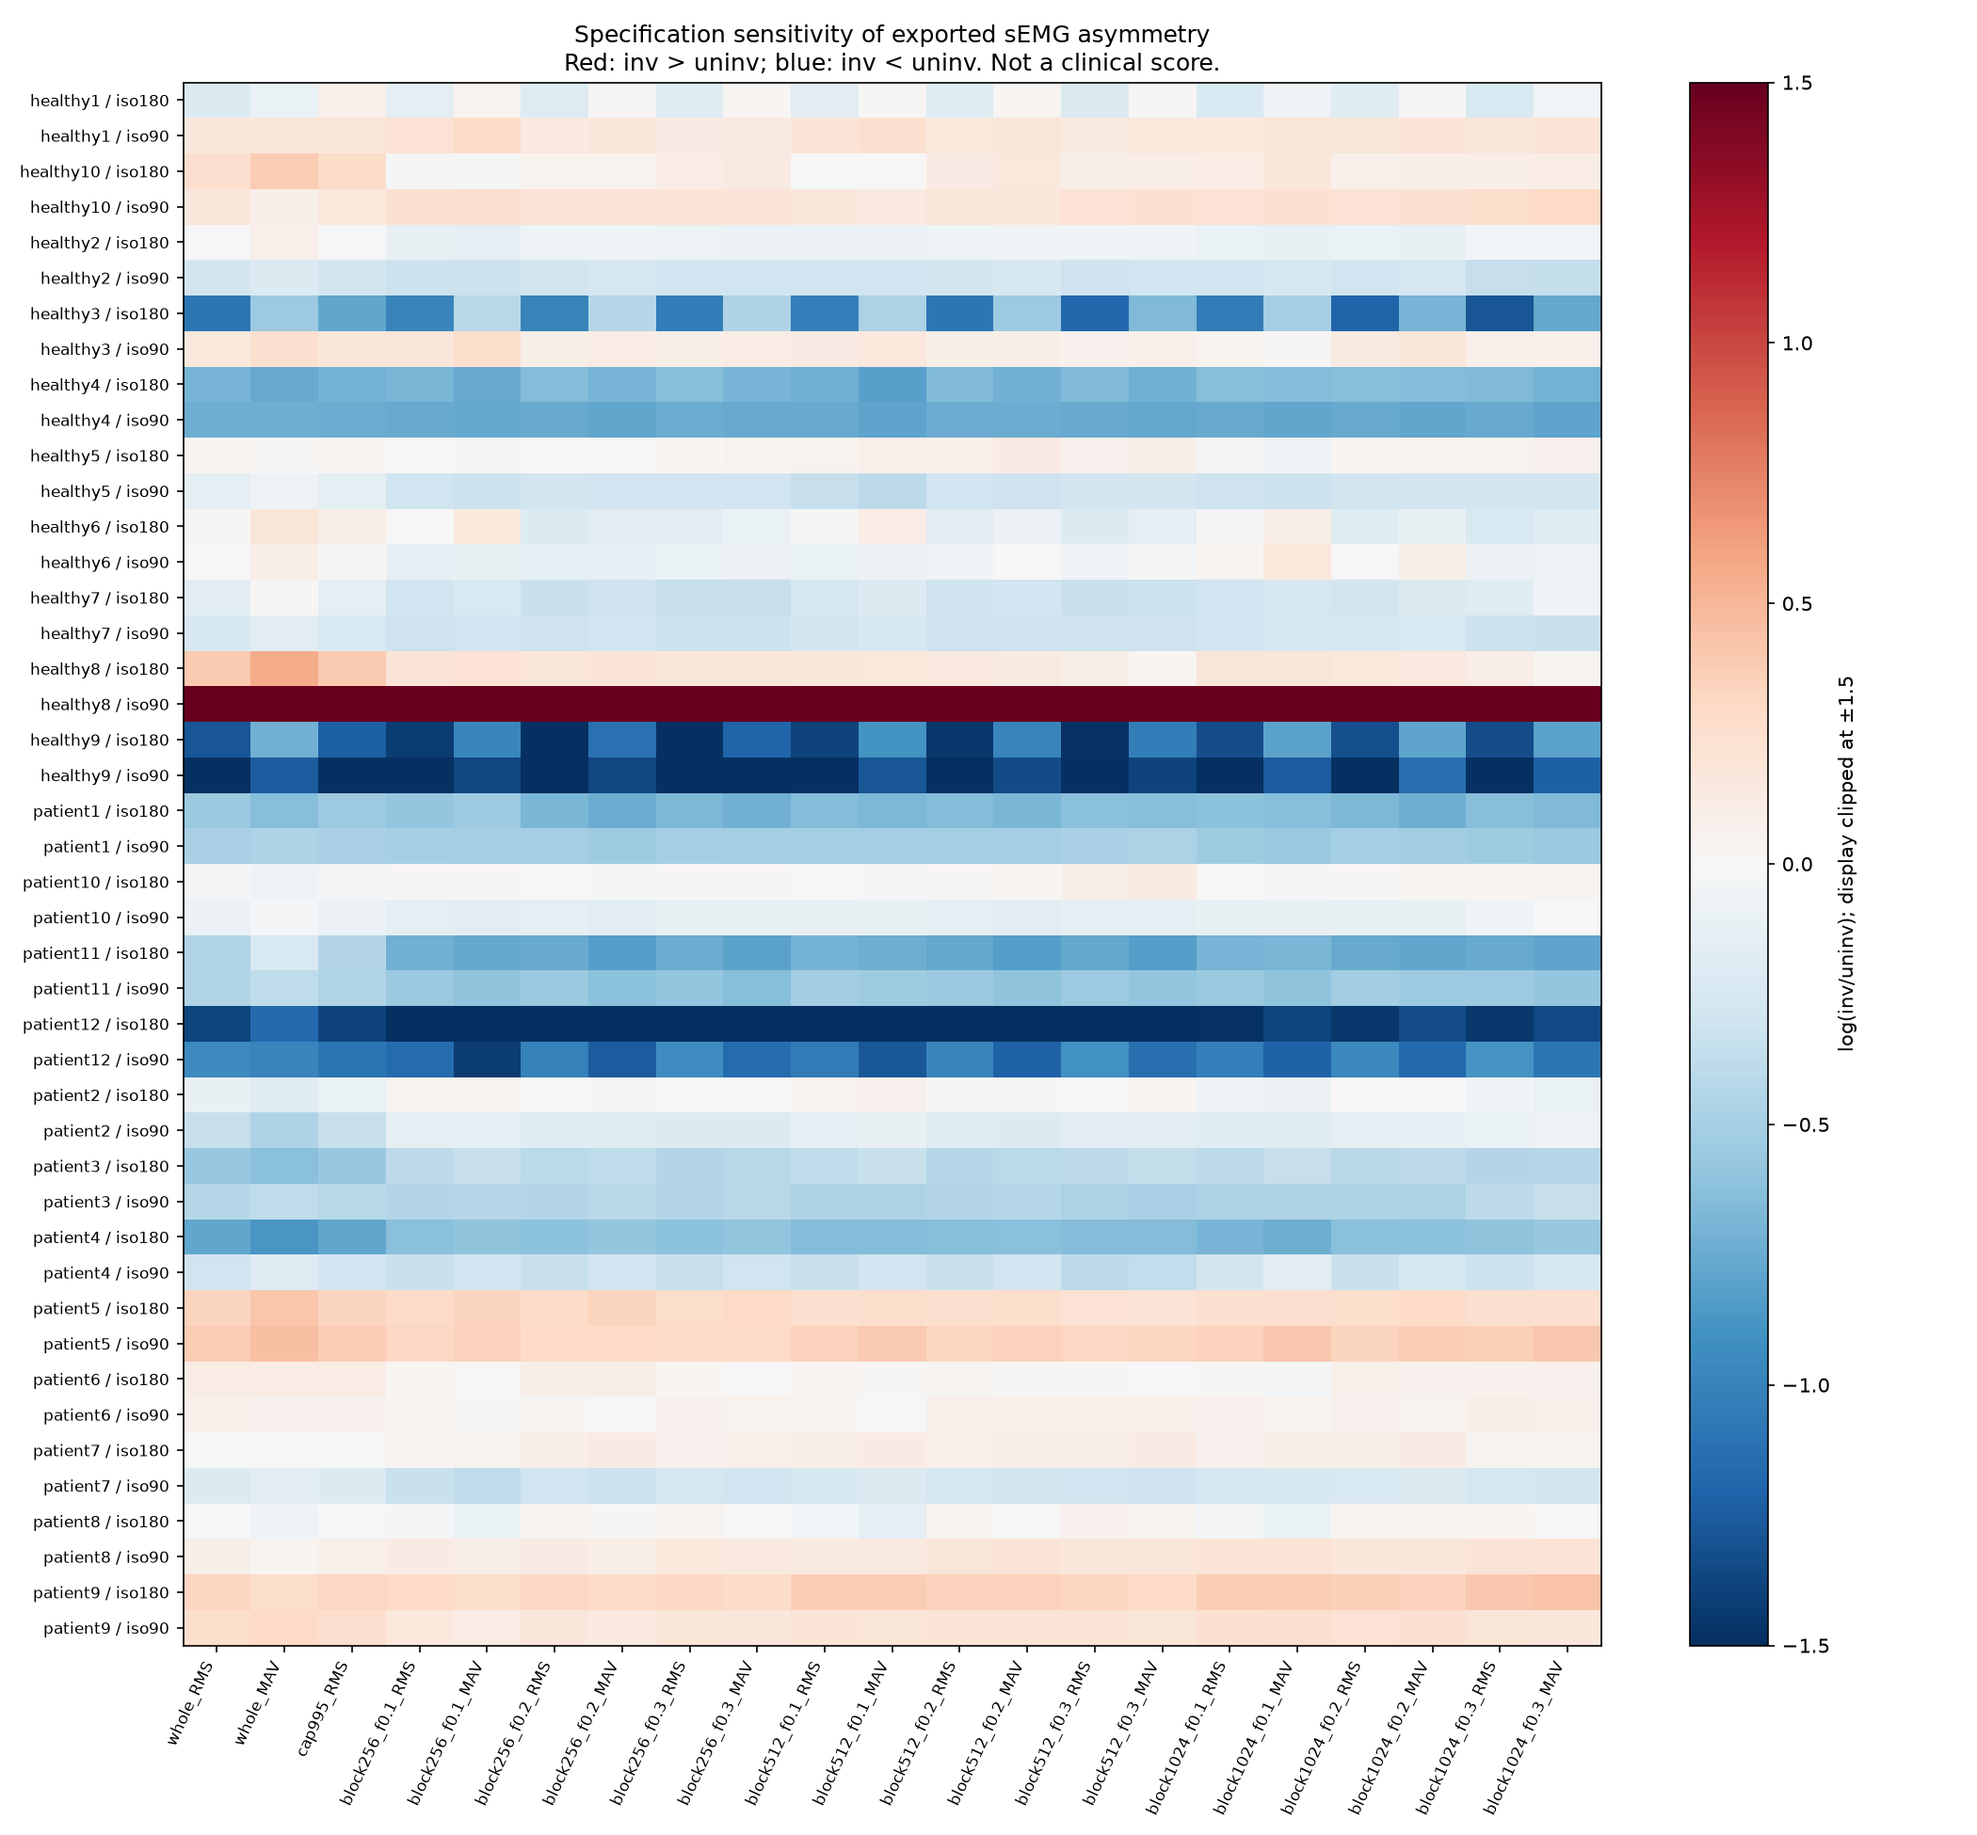
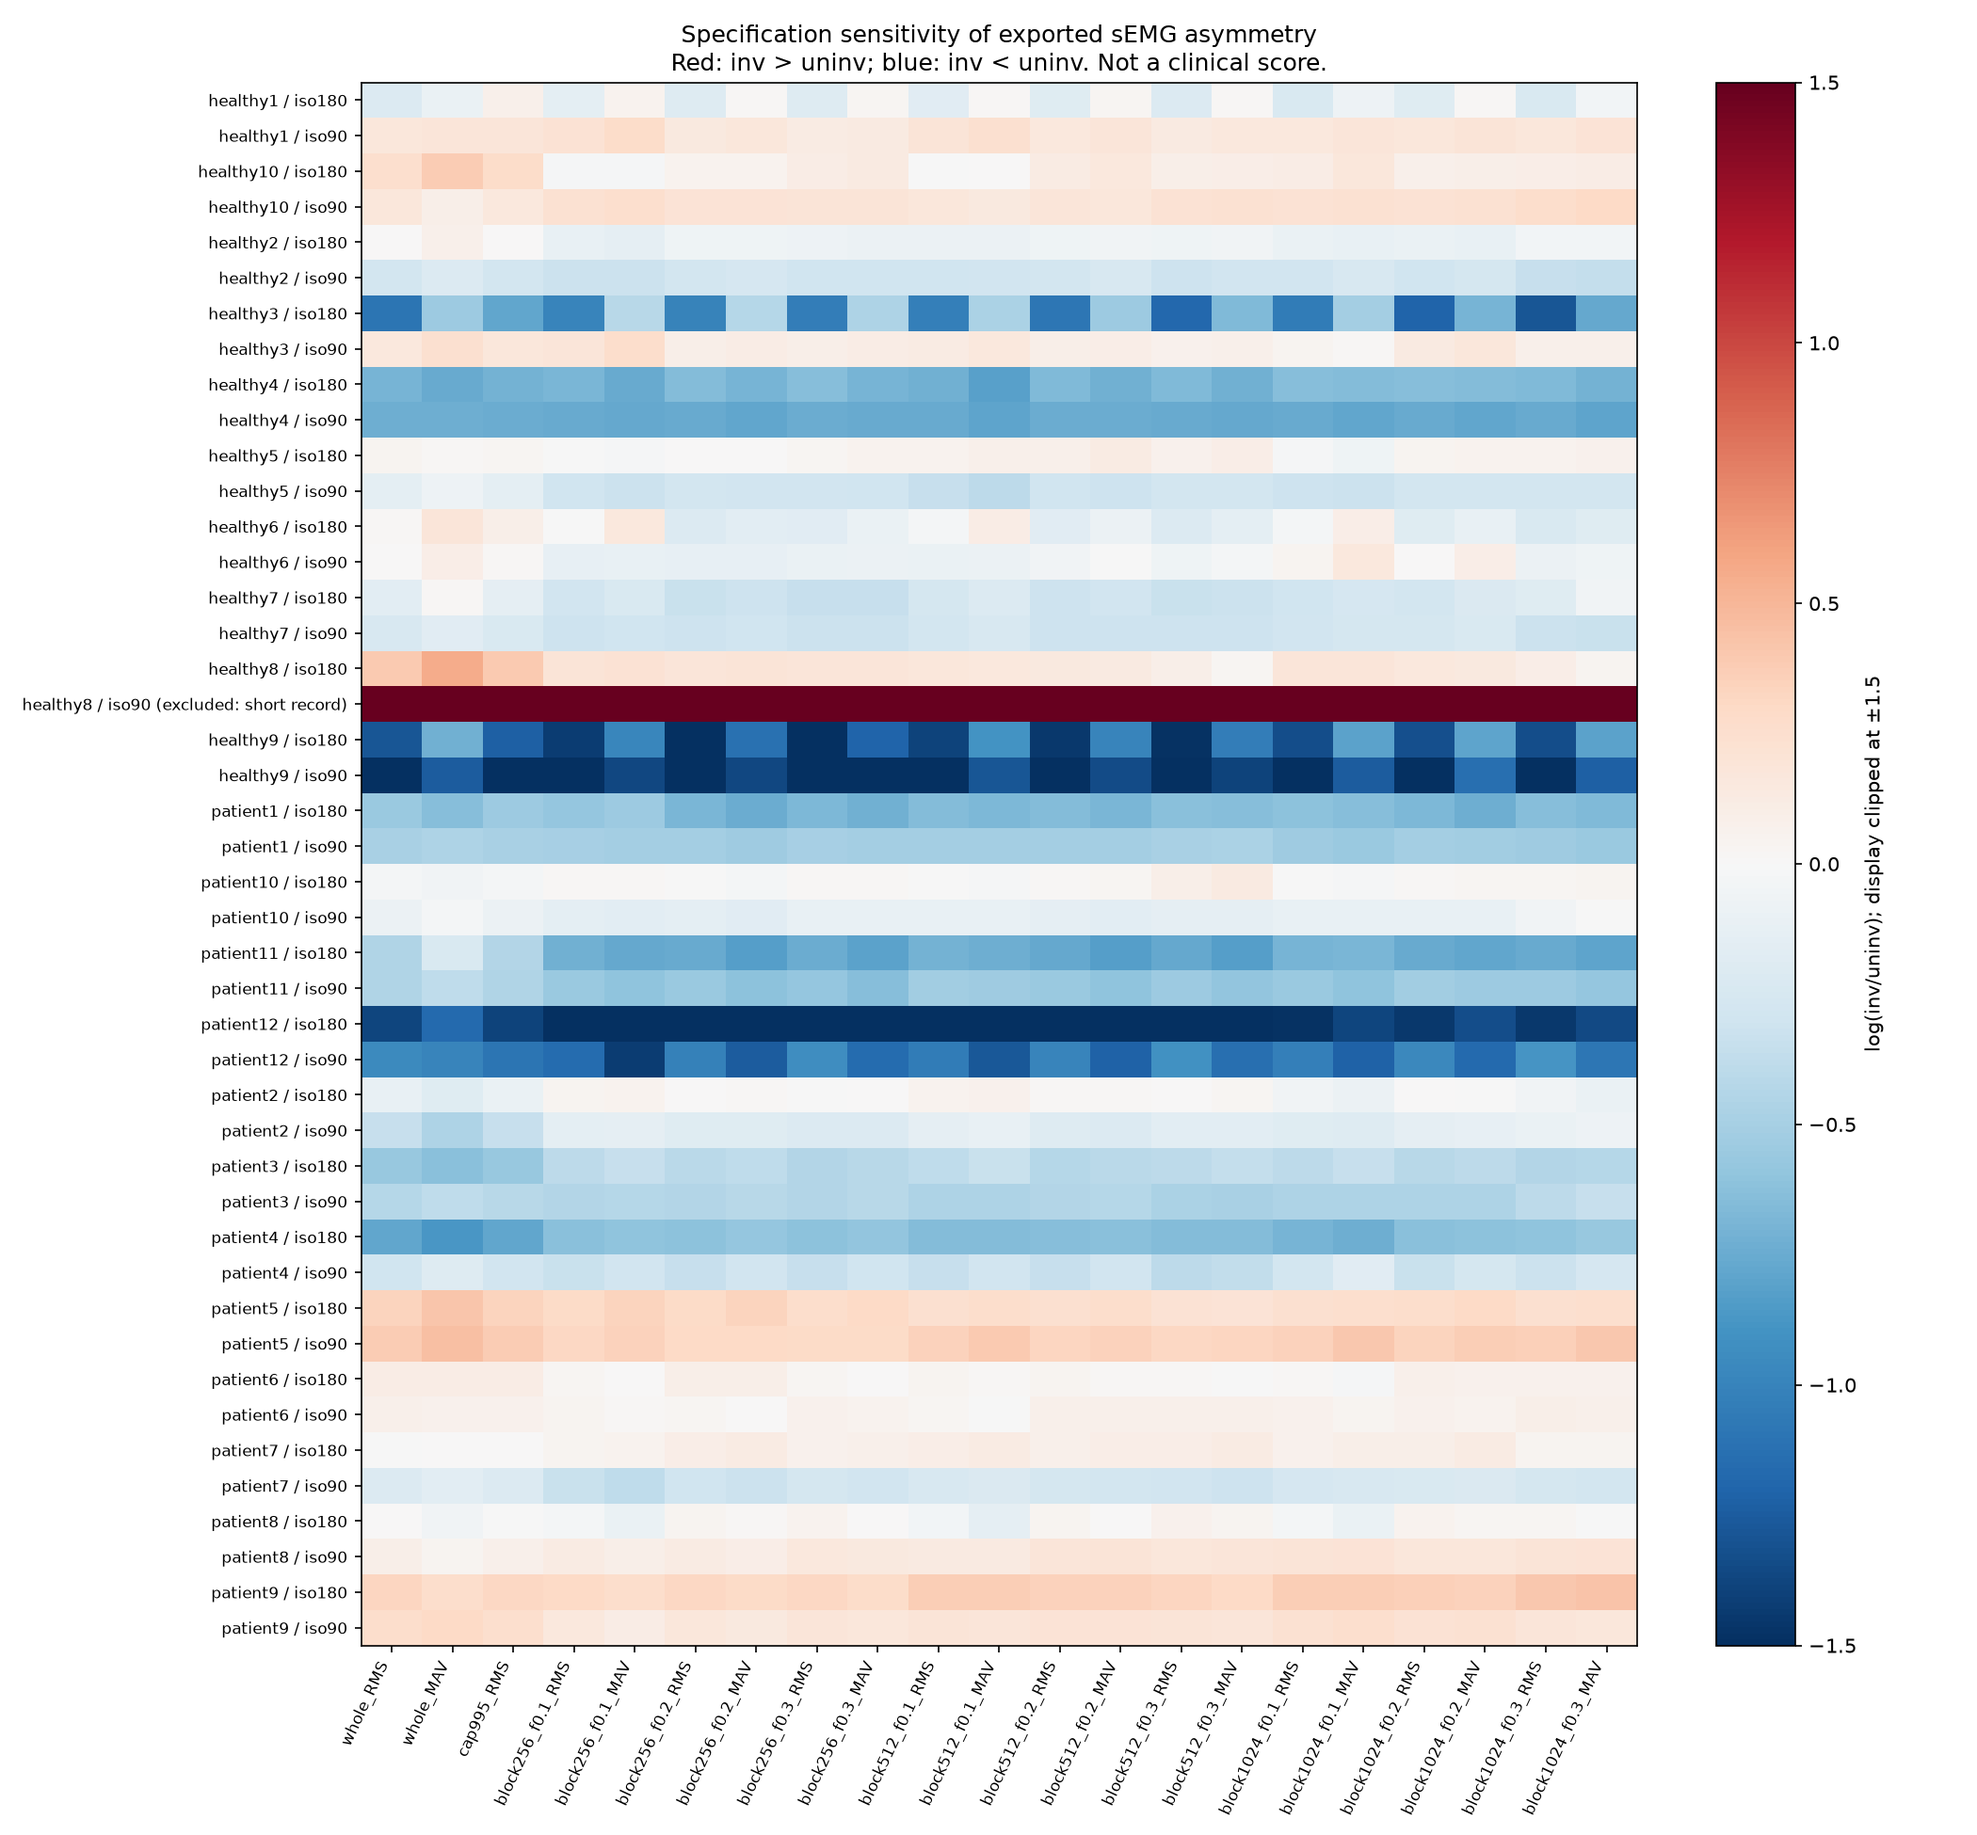
Exclude healthy8/iso90 from the primary robustness counts
Why: its uninv record lasts 2.0 s; the next shortest of 88 lasts 10.5 s
and its partner about 25 s, so a whole-record ratio does not compare
like with like. Centering (25.2 -> 46.5) and band-pass (-> 64.6) make
the ratio larger, so it is not a processing artefact. The existing
25%-of-median short-record flag is promoted to a primary-presentation
exclusion; the decision is retrospective and all 44 pairs stay in the
outputs and the matrix (row labelled). Headline counts are unchanged
(13 and 10) because this pair never crosses ratio 1.

diff --git a/scripts/evaluate_robustness.py b/scripts/evaluate_robustness.py
@@ -15,6 +15,7 @@ import numpy as np
 matplotlib.use("Agg")
 import matplotlib.pyplot as plt
 
+from src.features.quality import excluded_pairs
 from src.features.specifications import specifications
 
 
@@ -70,6 +71,7 @@ def synthetic():
 def main():
     features = read("data/processed/semg_extended_features.csv")
     blocks = read("reports/block_selection_sensitivity.csv")
+    excluded = excluded_pairs(features)
     grouped = {}
     for r in features:
         key = (r["participant_id"], r["cohort"], r["condition"])
@@ -129,10 +131,14 @@ def main():
                 "log_ratio_range": float(valid.max() - valid.min()),
                 "direction_changes_across_specifications": crosses,
                 "max_absolute_log_change_from_whole_rms": max(abs(valid - reference)),
+                "primary_pair": (person, condition) not in excluded,
             }
         )
         matrix.append(logs)
-        labels.append(f"{person} / {condition}")
+        labels.append(
+            f"{person} / {condition}"
+            + (" (excluded: short record)" if (person, condition) in excluded else "")
+        )
     assert len(rows) == 924 and len(summaries) == 44
     write("reports/robustness_specifications.csv", rows)
     write("reports/robustness_participant_summary.csv", summaries)
@@ -150,6 +156,13 @@ def main():
     rms_changed = sum(
         np.any(np.array(v)[rms_columns] < 0) and np.any(np.array(v)[rms_columns] > 0)
         for v in matrix
+    )
+    primary = [r for r in summaries if r["primary_pair"]]
+    primary_changed = sum(r["direction_changes_across_specifications"] for r in primary)
+    primary_rms_changed = sum(
+        np.any(np.array(v)[rms_columns] < 0) and np.any(np.array(v)[rms_columns] > 0)
+        for v, r in zip(matrix, summaries)
+        if r["primary_pair"]
     )
     fig, ax = plt.subplots(figsize=(14, 13))
     im = ax.imshow(matrix, aspect="auto", cmap="RdBu_r", vmin=-1.5, vmax=1.5)
@@ -172,6 +185,8 @@ Evaluación retrospectiva · 2026-10-06. No es un descubrimiento clínico ni se 
 De 44 pares participante-condición, **{changed} ({changed / 44:.1%}) cambian de dirección** entre las 21 especificaciones de amplitud. Corresponden a {people} de 22 personas; cada persona puede aportar dos condiciones. Cambiar de dirección significa que unas especificaciones dan inv/uninv <1 y otras >1. Diferencias muy pequeñas también cuentan: no implica un cambio clínicamente relevante.
 
 Esto demuestra información adicional al RMS único: identifica interpretaciones dependientes de cómo se resume la señal. No demuestra cuál especificación es fisiológicamente correcta. Las 21 variantes no son réplicas independientes ni votos con probabilidad clínica. RMS y MAV son estimandos diferentes; se agrupan aquí para mostrar dependencia de la interpretación, no para estimar error de medición del mismo estimando.
+
+Clasificación de validez (2026-10-07): {44 - len(primary)} par(es) quedan fuera de la presentación principal porque un miembro dura menos del 25% de la mediana de su cohorte-condición; con los {len(primary)} pares válidos, {primary_changed} cambian de dirección (21 variantes) y {primary_rms_changed} con las 11 variantes RMS. Los 44 se conservan como sensibilidad.
 
 Si se restringe la comparación a las 11 variantes RMS (registro completo, límite de picos y nueve selecciones de bloques), {rms_changed} pares cambian de dirección. Los bloques seleccionados siguen midiendo subconjuntos diferentes del registro.
 
@@ -212,6 +227,10 @@ No hay validación independiente ni ejecución confirmada en Kaggle todavía. El
         "direction_changes": changed,
         "participants_with_direction_changes": people,
         "rms_only_direction_changes": int(rms_changed),
+        "excluded_pairs": sorted("/".join(k) for k in excluded),
+        "primary_pairs": len(primary),
+        "primary_direction_changes": int(primary_changed),
+        "primary_rms_only_direction_changes": int(primary_rms_changed),
         "synthetic_assertions_passed": True,
     }
     (ROOT / "reports/robustness_summary.json").write_text(

diff --git a/docs/history/robustness_results.md b/docs/history/robustness_results.md
@@ -8,6 +8,8 @@ De 44 pares participante-condición, **13 (29.5%) cambian de dirección** entre 
 
 Esto demuestra información adicional al RMS único: identifica interpretaciones dependientes de cómo se resume la señal. No demuestra cuál especificación es fisiológicamente correcta. Las 21 variantes no son réplicas independientes ni votos con probabilidad clínica. RMS y MAV son estimandos diferentes; se agrupan aquí para mostrar dependencia de la interpretación, no para estimar error de medición del mismo estimando.
 
+Clasificación de validez (2026-10-07): 1 par(es) quedan fuera de la presentación principal porque un miembro dura menos del 25% de la mediana de su cohorte-condición; con los 43 pares válidos, 13 cambian de dirección (21 variantes) y 10 con las 11 variantes RMS. Los 44 se conservan como sensibilidad.
+
 Si se restringe la comparación a las 11 variantes RMS (registro completo, límite de picos y nueve selecciones de bloques), 10 pares cambian de dirección. Los bloques seleccionados siguen midiendo subconjuntos diferentes del registro.
 
 Ejemplos auditables: healthy1/iso180 abarca aproximadamente 79,5–107,7% entre especificaciones; patient2/iso180, 83,6–106,0%. En cambio, patient6/iso90 abarca 99,6–108,7%: cruzar 100% por sí solo no indica una diferencia sustancial. Los valores no describen fuerza muscular recuperada.
